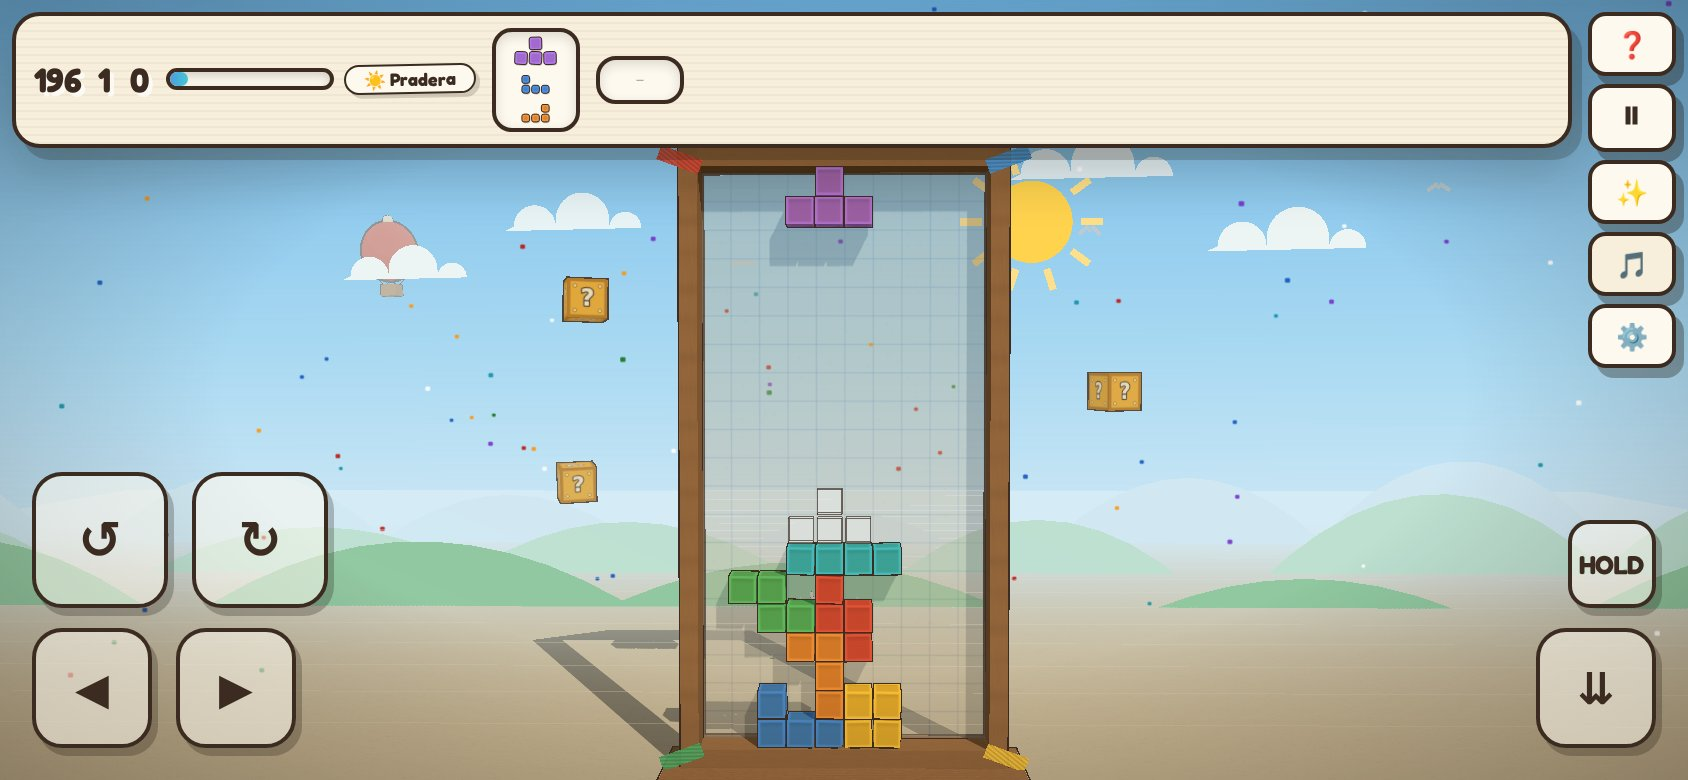
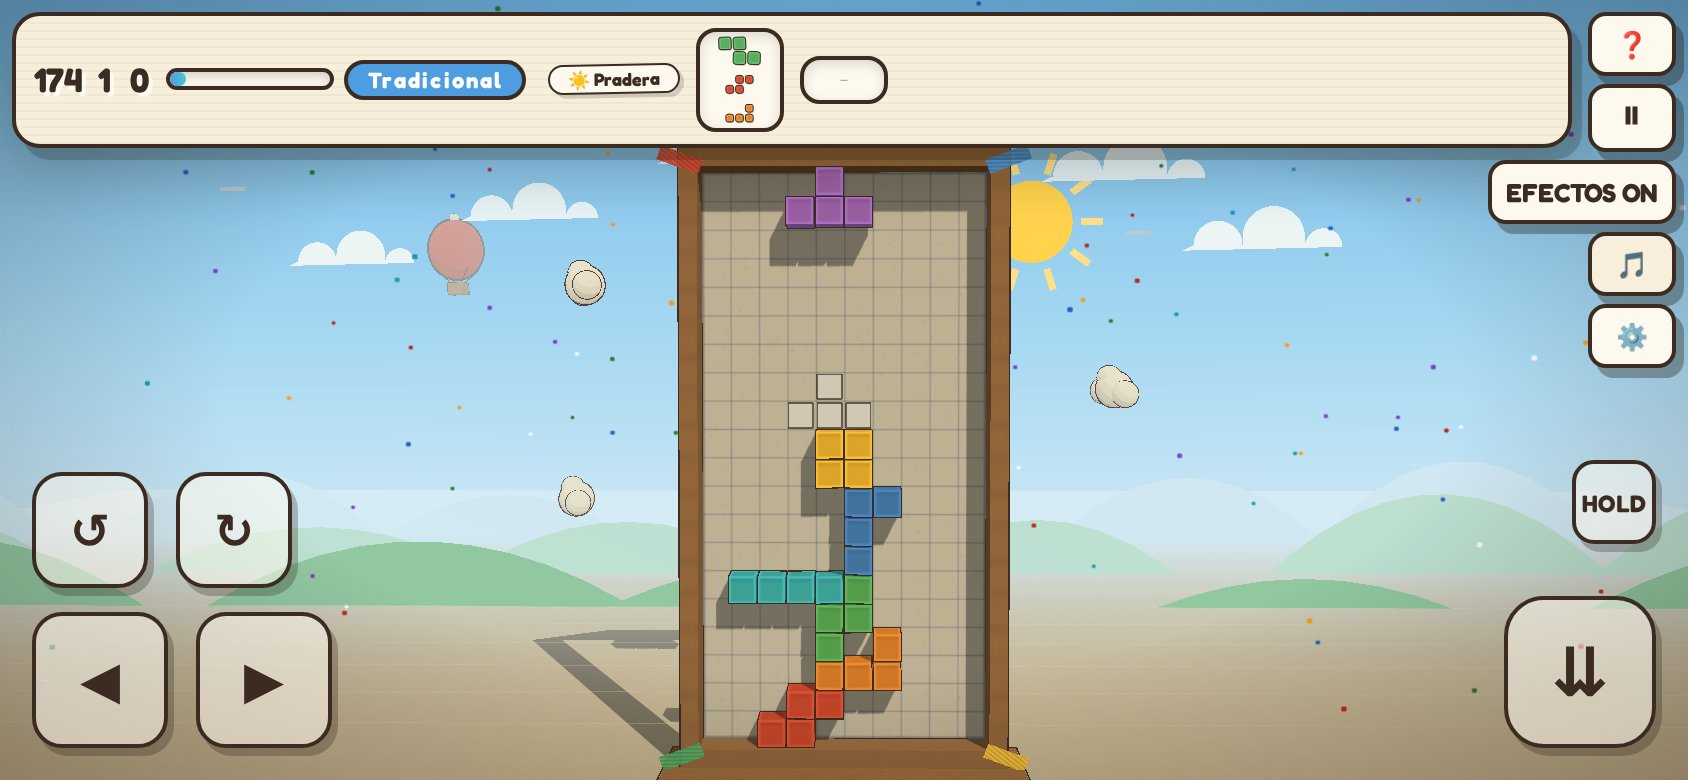
docs: actualiza README y renueva screenshots
- Conteo de tests 132→136
- app.ts/GameApp en diagrama de arquitectura (main.ts queda como punto de entrada delgado)
- Nuevas decisiones técnicas: render condicional, stackHeight cacheado,
  salida temprana en FallField, constantes con nombre
- Screenshots regeneradas con npm run shots (desktop, mobile-portrait,
  mobile-landscape)

diff --git a/README.md b/README.md
@@ -27,7 +27,7 @@ npm run dev      # local: http://localhost:5173 · LAN: http://<tu-IP>:5173
 ```
 
 ```bash
-npm test         # tests de lógica (vitest 5, 132 tests)
+npm test         # tests de lógica (vitest 5, 136 tests)
 npm run build    # type-check (tsc 7 nativo) + bundle Rolldown/Oxc
 npm run preview  # sirve dist/ (también en LAN: http://<tu-IP>:4173)
 npm run curate   # (opcional) regenera las semillas curadas de la música
@@ -199,7 +199,7 @@ src/
   tools/     fuera del bundle: curate-seeds.ts (npm run curate) puntúa semillas;
              screenshots.mjs (npm run shots) genera las capturas del README;
              touch-layout-check.mjs valida la ergonomía del layout táctil (node)
-  main.ts     Bucle, cámara con deriva, gauge/selector, toggle de efectos, eventos→efectos
+  app.ts      GameApp: estado, bucle de render (con render condicional por frame sucio),\n              tormentas del Caos, música, efectos y entrada unificada\n  main.ts     Punto de entrada delgado: solo importa y arranca GameApp
 ```
 
 La lógica (`src/game`) no importa three.js ni el DOM: se prueba sin navegador.
@@ -237,6 +237,15 @@ La lógica (`src/game`) no importa three.js ni el DOM: se prueba sin navegador.
 - **Panel del tablero por modos**: translúcido con efectos (el fondo se ve detrás de
   las piezas y las sombras se recortan contra el panel) y sólido sin ellos
   (`transparent: false`, sin blending ni ordenación) para ahorrar GPU.
+- **Render condicional**: `renderer.render()` solo se ejecuta cuando hay un frame
+  sucio (cambio de grid/pieza, sombra, escombros, clima, shake, HUD o render
+  pendiente); pantallas estáticas (menú, pausa, gameover) no re-dibujan.
+- **Altura de pila cacheada** en el motor (`stackHeight`): se recalcula solo cuando
+  el grid muta (invalidado por `gridVersion`), no cada frame en la señal de música.
+- **Salida temprana en clima**: `FallField.update()` retorna sin tocar buffers cuando
+  el campo está desvanecido y no hay caída, vagabundeo ni titileo.
+- **Constantes con nombre** para números mágicos del loop (intervalo de música 10 Hz,
+  refresco HUD 80 ms, delta máximo 100 ms, flecha de viento ≥ 1 s).
 - **Audio 100 % sintetizado**: osciladores WebAudio, cero ficheros. La música
   procedural se programa con scheduler lookahead (tipo *tale of two clocks*) y
   cambios de intensidad cuantizados al compás; incluye limitador (compresor) y
